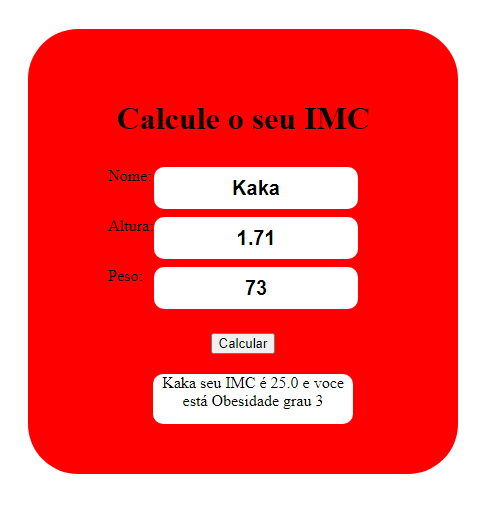
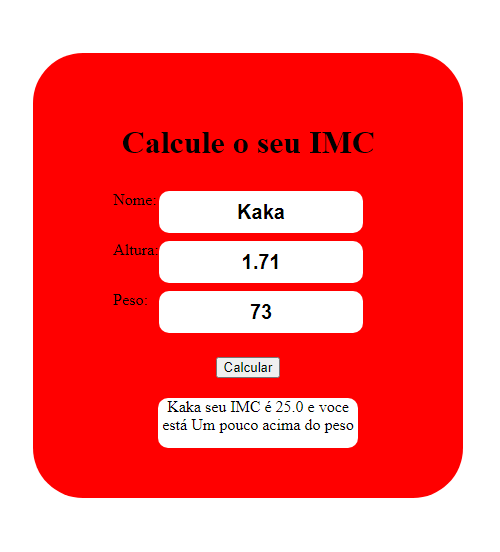
CALCULADORA DE IMC

Changed region(s): [[0.0312, 0.0592, 0.9667, 0.9467], [0.2183, 0.3254, 0.7484, 0.858], [0.2183, 0.2071, 0.7796, 0.2959]]

diff --git a/script.js b/script.js
@@ -14,13 +14,13 @@ if (nome !== '' && altura !== '' && peso !== '') {
 
     if (valorImc < 18.5) {
         tipoIMC = 'Abaixo do peso'
-    } else if (valorImc > 18.5 && valorImc < 25) {
+    } else if (valorImc < 25) {
         tipoIMC = 'Peso ideal'
-    } else if (valorImc > 25) {
+    } else if (valorImc < 30) {
         tipoIMC = 'Um pouco acima do peso'
-    } else if (valorImc > 35) {
+    } else if (valorImc < 35) {
         tipoIMC = 'Obesidade grau 1'
-    } else if (valorImc > 40) {
+    } else if (valorImc < 40) {
         tipoIMC = 'Obesidade grau 2'
     } else {
         tipoIMC = 'Obesidade grau 3'
